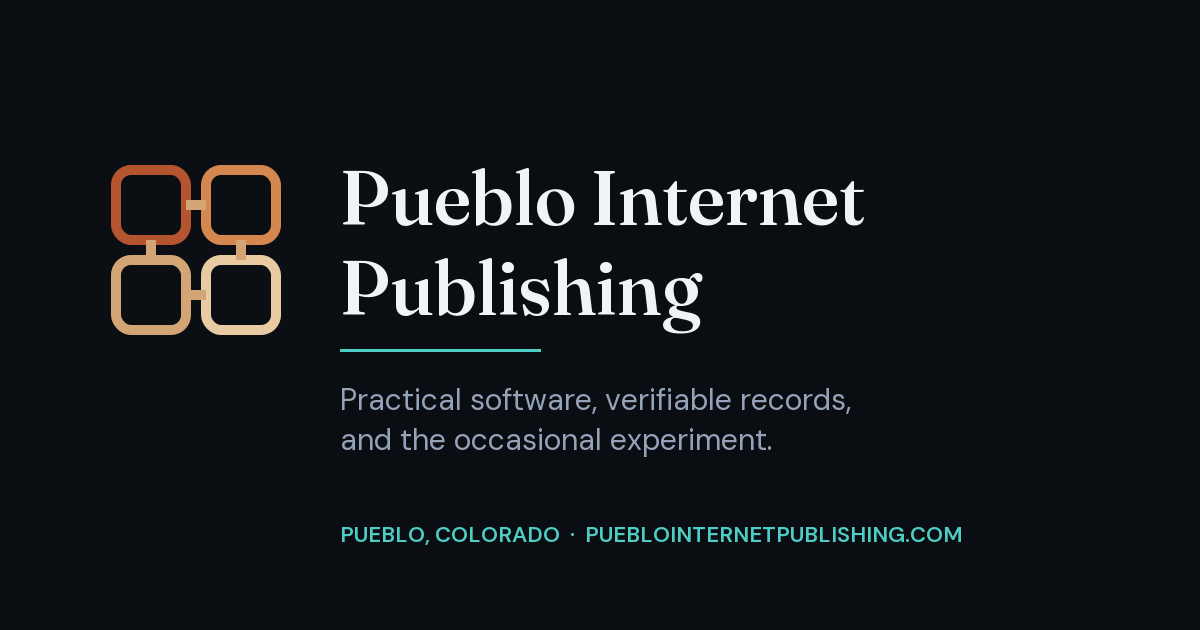
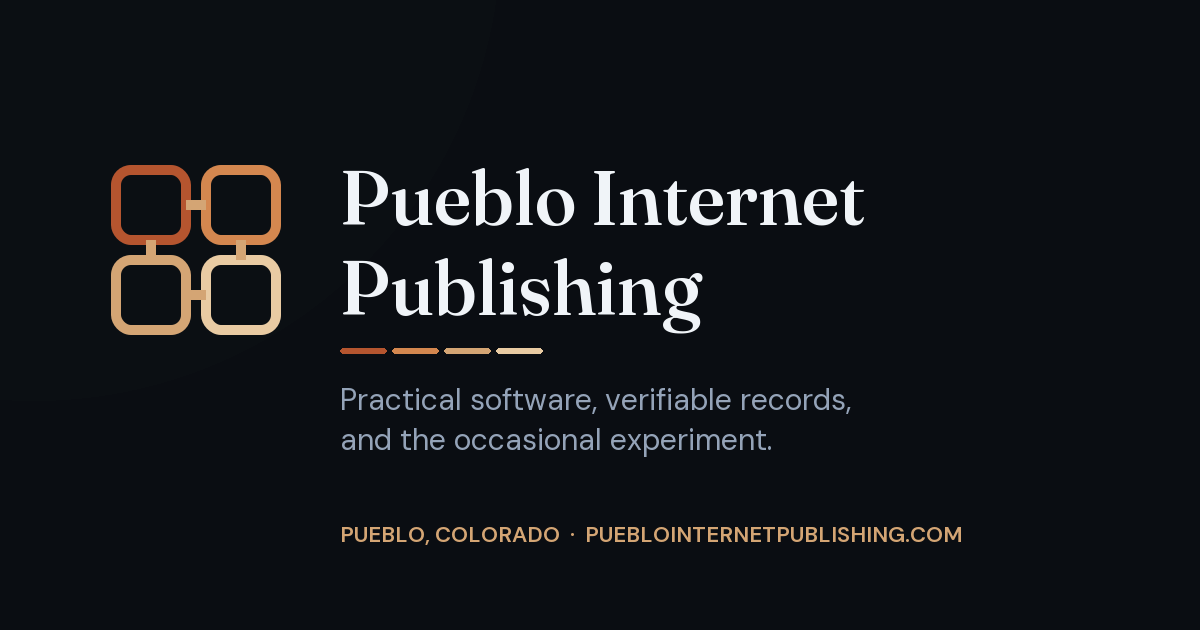
Carry the adobe palette through the page
Brand text, eyebrow, links, section rules, header and footer stripes,
per-card accent edges and tags, warm hero glow; social image rule and
footer line recolored to match.

Changed region(s): [[0.2775, 0.8143, 0.8017, 0.8746], [0.2775, 0.5429, 0.4625, 0.573]]

diff --git a/index.html b/index.html
@@ -40,6 +40,15 @@
             --accent-teal: #4ecdc4;
             --accent-teal-dim: rgba(78, 205, 196, 0.15);
             --accent-gold: #d4a574;
+            --adobe-1: #b5552f;
+            --adobe-2: #d4874f;
+            --adobe-3: #d4a574;
+            --adobe-4: #e9cba3;
+            --adobe-2-dim: rgba(212, 135, 79, 0.16);
+            --adobe-1-dim: rgba(181, 85, 47, 0.18);
+            --adobe-3-dim: rgba(212, 165, 116, 0.16);
+            --adobe-4-dim: rgba(233, 203, 163, 0.14);
+            --adobe-stripe: linear-gradient(90deg, var(--adobe-1) 0 25%, var(--adobe-2) 25% 50%, var(--adobe-3) 50% 75%, var(--adobe-4) 75% 100%);
             --text-primary: #f0f4f8;
             --text-secondary: #94a3b8;
             --text-muted: #64748b;
@@ -55,45 +64,58 @@
             line-height: 1.6;
             -webkit-font-smoothing: antialiased;
         }
-        a { color: var(--accent-teal); text-decoration: none; }
+        a { color: var(--adobe-2); text-decoration: none; }
+        a:hover { color: var(--adobe-4); }
         a:hover { text-decoration: underline; }
         .wrap { max-width: var(--max); margin: 0 auto; padding: 0 24px; }
         header {
             border-bottom: 1px solid var(--border-color);
+            position: relative;
             background: rgba(10, 13, 18, 0.9);
             backdrop-filter: blur(10px);
             position: sticky; top: 0; z-index: 10;
         }
+        header::after { content: ""; position: absolute; left: 0; right: 0; bottom: -1px; height: 2px; background: var(--adobe-stripe); opacity: 0.85; }
         .nav { display: flex; align-items: center; justify-content: space-between; height: 64px; }
         .brand { display: flex; align-items: center; gap: 10px; font-family: 'Fraunces', serif; font-weight: 600; font-size: 1.1rem; color: var(--text-primary); letter-spacing: 0.01em; }
         .brand svg { width: 30px; height: 30px; flex: none; }
         .brand:hover { text-decoration: none; }
-        .brand span { color: var(--accent-teal); }
+        .brand span span { color: var(--adobe-2); }
         .nav ul { display: flex; gap: 28px; list-style: none; }
         .nav ul a { color: var(--text-secondary); font-size: 0.95rem; }
         .nav ul a:hover { color: var(--text-primary); text-decoration: none; }
         .hero { padding: 96px 0 72px; }
-        .eyebrow { color: var(--accent-teal); font-size: 0.8rem; letter-spacing: 0.18em; text-transform: uppercase; font-weight: 600; margin-bottom: 18px; }
+        main { position: relative; z-index: 0; }
+        main::before { content: ""; position: absolute; left: 0; top: 0; width: 100%; height: 720px; pointer-events: none; z-index: -1;
+            background: radial-gradient(620px 460px at 6% 0%, rgba(212, 135, 79, 0.13) 0%, rgba(212, 135, 79, 0.06) 35%, rgba(212, 135, 79, 0.02) 65%, rgba(212, 135, 79, 0) 100%); }
+        .eyebrow { color: var(--adobe-2); font-size: 0.8rem; letter-spacing: 0.18em; text-transform: uppercase; font-weight: 600; margin-bottom: 18px; }
         h1 { font-family: 'Fraunces', serif; font-weight: 500; font-size: clamp(2.2rem, 5vw, 3.6rem); line-height: 1.12; max-width: 18ch; margin-bottom: 24px; }
         .lede { color: var(--text-secondary); font-size: 1.15rem; max-width: 60ch; }
         section { padding: 56px 0; border-top: 1px solid var(--border-color); }
         h2 { font-family: 'Fraunces', serif; font-weight: 500; font-size: 1.8rem; margin-bottom: 12px; }
+        h2::after { content: ""; display: block; width: 56px; height: 4px; margin-top: 12px; border-radius: 2px; background: var(--adobe-stripe); }
         .sub { color: var(--text-secondary); max-width: 62ch; margin-bottom: 36px; }
         .grid { display: grid; grid-template-columns: repeat(auto-fit, minmax(280px, 1fr)); gap: 20px; }
         .card {
             display: block; background: var(--bg-card); border: 1px solid var(--border-color);
             border-radius: 14px; padding: 26px; color: inherit; transition: border-color .2s, background .2s, transform .2s;
         }
-        .card:hover { background: var(--bg-card-hover); border-color: var(--accent-teal); transform: translateY(-2px); text-decoration: none; }
+        .card { --c: var(--adobe-3); --c-dim: var(--adobe-3-dim); border-left: 3px solid var(--c); }
+        .card:hover { background: var(--bg-card-hover); border-color: var(--c); transform: translateY(-2px); text-decoration: none; color: inherit; }
+        .card.c1 { --c: var(--adobe-1); --c-dim: var(--adobe-1-dim); }
+        .card.c2 { --c: var(--adobe-2); --c-dim: var(--adobe-2-dim); }
+        .card.c3 { --c: var(--adobe-3); --c-dim: var(--adobe-3-dim); }
+        .card.c4 { --c: var(--adobe-4); --c-dim: var(--adobe-4-dim); }
         .card h3 { font-size: 1.15rem; font-weight: 600; margin-bottom: 4px; }
-        .card .url { display: block; color: var(--accent-teal); font-size: 0.85rem; margin-bottom: 12px; }
+        .card .url { display: block; color: var(--c); font-size: 0.85rem; margin-bottom: 12px; }
         .card p { color: var(--text-secondary); font-size: 0.95rem; }
         .tags { display: flex; flex-wrap: wrap; gap: 8px; margin-top: 16px; }
-        .tag { background: var(--accent-teal-dim); color: var(--accent-teal); font-size: 0.72rem; padding: 4px 10px; border-radius: 999px; font-weight: 500; letter-spacing: 0.03em; }
-        .tag.gold { background: rgba(212, 165, 116, 0.15); color: var(--accent-gold); }
+        .tag { background: var(--c-dim); color: var(--c); font-size: 0.72rem; padding: 4px 10px; border-radius: 999px; font-weight: 500; letter-spacing: 0.03em; }
+        .tag.gold { background: var(--adobe-4-dim); color: var(--adobe-4); }
         .about p { color: var(--text-secondary); max-width: 68ch; margin-bottom: 16px; }
         .contact .card { max-width: 520px; }
-        footer { border-top: 1px solid var(--border-color); padding: 32px 0; color: var(--text-muted); font-size: 0.85rem; }
+        footer { border-top: 1px solid var(--border-color); padding: 32px 0; color: var(--text-muted); font-size: 0.85rem; position: relative; }
+        footer::before { content: ""; position: absolute; left: 0; right: 0; top: -1px; height: 2px; background: var(--adobe-stripe); opacity: 0.6; }
         footer .wrap { display: flex; flex-wrap: wrap; gap: 12px 32px; justify-content: space-between; }
         @media (max-width: 640px) { .nav ul { display: none; } .hero { padding: 64px 0 48px; } }
     </style>
@@ -112,7 +134,7 @@
                     <line x1="29" y1="18" x2="29" y2="22" stroke="#d4a574" stroke-width="2"/>
                     <line x1="18" y1="29" x2="22" y2="29" stroke="#d4a574" stroke-width="2"/>
                 </svg>
-                <span>Pueblo <span style="color:var(--accent-teal)">Internet Publishing</span></span>
+                <span>Pueblo <span>Internet Publishing</span></span>
             </a>
             <ul>
                 <li><a href="#ventures">Ventures</a></li>
@@ -134,19 +156,19 @@
                 <h2>Ventures</h2>
                 <p class="sub">What the company builds and operates today.</p>
                 <div class="grid">
-                    <a class="card" href="https://blockchainintegrationstrategies.com">
+                    <a class="card c1" href="https://blockchainintegrationstrategies.com">
                         <h3>Blockchain Integration Strategies</h3>
                         <span class="url">blockchainintegrationstrategies.com</span>
                         <p>Web 2.5 consulting. Verifiable records, transparent audit trails, and tamper-evident systems for organizations that need trust and tracking, not speculative tokens.</p>
                         <div class="tags"><span class="tag">Consulting</span><span class="tag">Audit Trails</span><span class="tag">Smart Contracts</span></div>
                     </a>
-                    <a class="card" href="https://recordstamp.com">
+                    <a class="card c2" href="https://recordstamp.com">
                         <h3>RecordStamp</h3>
                         <span class="url">recordstamp.com</span>
                         <p>Free blockchain document timestamping. Immutable proof of existence for contracts, intellectual property, and creative work. Files never leave your device; only the hash goes on-chain.</p>
                         <div class="tags"><span class="tag">Timestamping</span><span class="tag">Proof of Existence</span><span class="tag">Monad</span></div>
                     </a>
-                    <a class="card" href="https://nft.puebloip.com">
+                    <a class="card c3" href="https://nft.puebloip.com">
                         <h3>Pueblo Inutile Protocol</h3>
                         <span class="url">nft.puebloip.com</span>
                         <p>A satirical art project: a beautifully over-engineered blockchain that does nothing at all. Built to make a point about purposeless tokens, and to have some fun doing it.</p>
@@ -168,7 +190,7 @@
             <div class="wrap">
                 <h2>Contact</h2>
                 <p class="sub">Business inquiries are handled through Blockchain Integration Strategies.</p>
-                <a class="card" href="https://blockchainintegrationstrategies.com/#contact">
+                <a class="card c4" href="https://blockchainintegrationstrategies.com/#contact">
                     <h3>Get in touch</h3>
                     <span class="url">blockchainintegrationstrategies.com/#contact</span>
                     <p>Consulting engagements, project questions, and partnership requests.</p>
